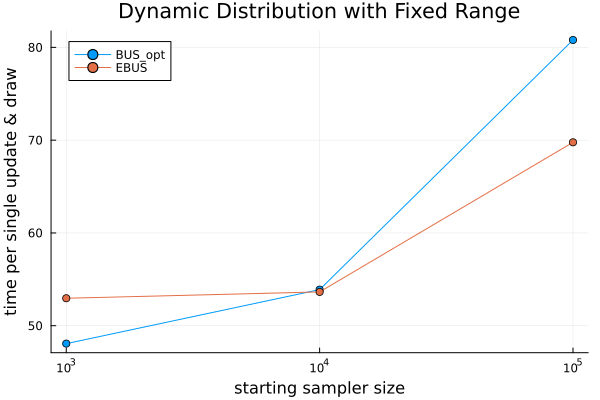
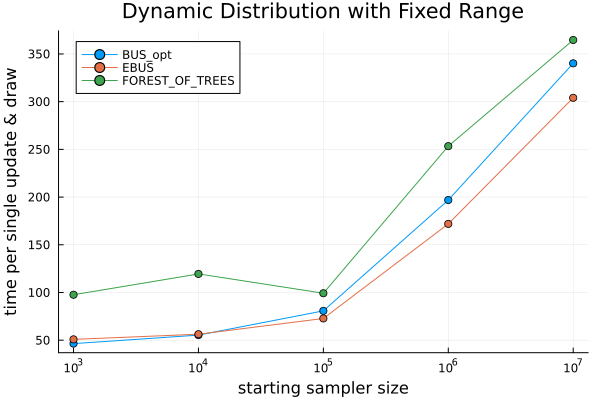
add forest_of_trees

diff --git a/forest_of_trees/src/main.rs b/forest_of_trees/src/main.rs
@@ -1,15 +1,20 @@
 use dynamic_weighted_index::DynamicWeightedIndex;
-use rand::distributions::Distribution;
 use rand::Rng;
 use rand::SeedableRng;
 use pcg_rand::Pcg64;
-use std::time::Instant;
+use rand_distr::{StandardNormal, Distribution};
+use std::{
+    hint::black_box,
+    time::Instant,
+};
+use std::path::Path;
 
 fn setup(rng: &mut Pcg64, size: usize) -> DynamicWeightedIndex<f64> {
     let mut dw_index = DynamicWeightedIndex::new(size);
     for i in 0..size {
-        let weight = rng.gen_range(0.0..(10.0_f64).powi(200));
-        dw_index.set_weight(i, weight);
+        let weight: f64 = StandardNormal.sample(rng);
+        let abs_weight = weight.abs();
+        dw_index.set_weight(i, abs_weight);
     }
     dw_index
 }
@@ -33,38 +38,132 @@ fn sample_variable(
 ) -> Vec<usize> {
     let mut samples = Vec::with_capacity(n);
     for _ in 0..n {
+        samples.push(dw_index.sample(rng).unwrap());
         let index_to_modify = rng.gen_range(0..n);
         dw_index.remove_weight(index_to_modify);
-        samples.push(dw_index.sample(rng).unwrap());
-        let new_weight = rng.gen_range(0.0..(10.0_f64).powi(200));
-        dw_index.set_weight(index_to_modify, new_weight);
+        let new_weight: f64 = StandardNormal.sample(rng);
+        let abs_new_weight = new_weight.abs();
+        dw_index.set_weight(index_to_modify, abs_new_weight);
     }
     samples
 }
 
-fn main() {
-    let mut rng = Pcg64::seed_from_u64(42);
-    let sample_sizes: Vec<usize> = (3..=8).map(|i| 10usize.pow(i)).collect();
+use std::error::Error;
+use csv::{ReaderBuilder, StringRecord, WriterBuilder};
 
-    for &size in &sample_sizes {
-        let setup_start = Instant::now();
-        let mut dw_index = setup(&mut rng, size);
-        let setup_time = setup_start.elapsed();
+/// Read `path` into memory, append `column_name` with one entry per row from `values`,
+/// and atomically rewrite the original CSV.
+fn append_column_to_csv(
+    path: &Path,
+    column_name: &str,
+    values: &[f64],
+) -> Result<(), Box<dyn Error>> {
+    // 1) Read existing CSV
+    let mut rdr = ReaderBuilder::new()
+        .has_headers(true)
+        .from_path(path)?;
+    let headers = rdr.headers()?.clone();
+    let mut records: Vec<StringRecord> = rdr
+        .records()
+        .enumerate()
+        .map(|(i, r)| {
+            let mut rec = r?;
+            if i >= values.len() {
+                Err("CSV has more rows than values provided")?
+            }
+            Ok(rec)
+        })
+        .collect::<Result<_, Box<dyn Error>>>()?;
 
-        let fixed_start = Instant::now();
-        sample_fixed(&mut rng, &dw_index, size);
-        let fixed_time = fixed_start.elapsed();
+    // 2) Prepare a new temporary writer
+    let tmp_path = path.with_extension("tmp");
+    let mut wtr = WriterBuilder::new()
+        .has_headers(true)
+        .from_path(&tmp_path)?;
 
-        let variable_start = Instant::now();
-        sample_variable(&mut rng, &mut dw_index, size);
-        let variable_time = variable_start.elapsed();
+    // 3) Write out headers + new column name
+    let mut new_headers = headers.clone();
+    new_headers.push_field(column_name);
+    wtr.write_record(&new_headers)?;
 
-        println!(
-            "Size: {}, Setup time: {:.2} ns/element, Fixed sampling: {:.2} ns/sample, Variable sampling: {:.2} ns/sample",
-            size,
-            (setup_time.as_nanos() as f64 / size as f64),
-            (fixed_time.as_nanos() as f64 / size as f64),
-            (variable_time.as_nanos() as f64 / size as f64),
-        );
+    // 4) Write each record with the appended value
+    for (i, mut rec) in records.into_iter().enumerate() {
+        let val = values
+            .get(i)
+            .ok_or("Not enough values to fill all rows")?
+            .to_string();
+        rec.push_field(&val);
+        wtr.write_record(&rec)?;
     }
+    wtr.flush()?;
+
+    // 5) Atomically replace the original file
+    std::fs::rename(tmp_path, path)?;
+    Ok(())
+}
+
+
+fn main() -> Result<(), Box<dyn std::error::Error>> {
+    let mut rng = Pcg64::seed_from_u64(42);
+    let sample_sizes: Vec<usize> = (3..=7).map(|i| 10usize.pow(i)).collect();
+    let repetitions = 5;
+
+    // --- 1) static (fixed) sampling ---
+    let mut static_avgs = Vec::with_capacity(sample_sizes.len());
+    for &size in &sample_sizes {
+        let dw_index = setup(&mut rng, size);
+        let mut total_ns: u128 = 0;
+        for _ in 0..repetitions {
+            let idx = black_box(&dw_index);
+            let n   = black_box(size);
+            let start = Instant::now();
+            sample_fixed(&mut rng, idx, n);
+            total_ns += start.elapsed().as_nanos();
+        }
+        let avg = total_ns as f64 / (repetitions as f64 * size as f64);
+        println!(
+            "Size: {:>8}, Fixed ({} reps): {:.2} ns/sample",
+            size, repetitions, avg
+        );
+        static_avgs.push(avg);
+    }
+
+    // write static_avgs out
+    let manifest_dir = Path::new(env!("CARGO_MANIFEST_DIR"));
+    let static_csv = manifest_dir
+        .parent().unwrap()
+        .join("data")
+        .join("static.csv");
+    append_column_to_csv(&static_csv, "FOREST_OF_TREES", &static_avgs)
+        .expect("Failed to append FOREST_OF_TREES to static.csv");
+
+    // --- 2) variable sampling ---
+    let mut variable_avgs = Vec::with_capacity(sample_sizes.len());
+    for &size in &sample_sizes {
+        let mut total_ns: u128 = 0;
+        for _ in 0..repetitions {
+            let mut dw_index = setup(&mut rng, size);
+            let idx = black_box(&mut dw_index);
+            let n   = black_box(size);
+            let start = Instant::now();
+            sample_variable(&mut rng, idx, n);
+            total_ns += start.elapsed().as_nanos();
+        }
+        let avg = total_ns as f64 / (repetitions as f64 * size as f64);
+        println!(
+            "Size: {:>8}, Variable ({} reps): {:.2} ns/sample",
+            size, repetitions, avg
+        );
+        variable_avgs.push(avg);
+    }
+
+    // write variable_avgs out
+    let variable_csv = manifest_dir
+        .parent().unwrap()
+        .join("data")
+        .join("dynamic_fixed.csv");
+    append_column_to_csv(&variable_csv, "FOREST_OF_TREES", &variable_avgs)
+        .expect("Failed to append FOREST_OF_TREES to dynamic_fixed.csv");
+
+    Ok(())
 }
